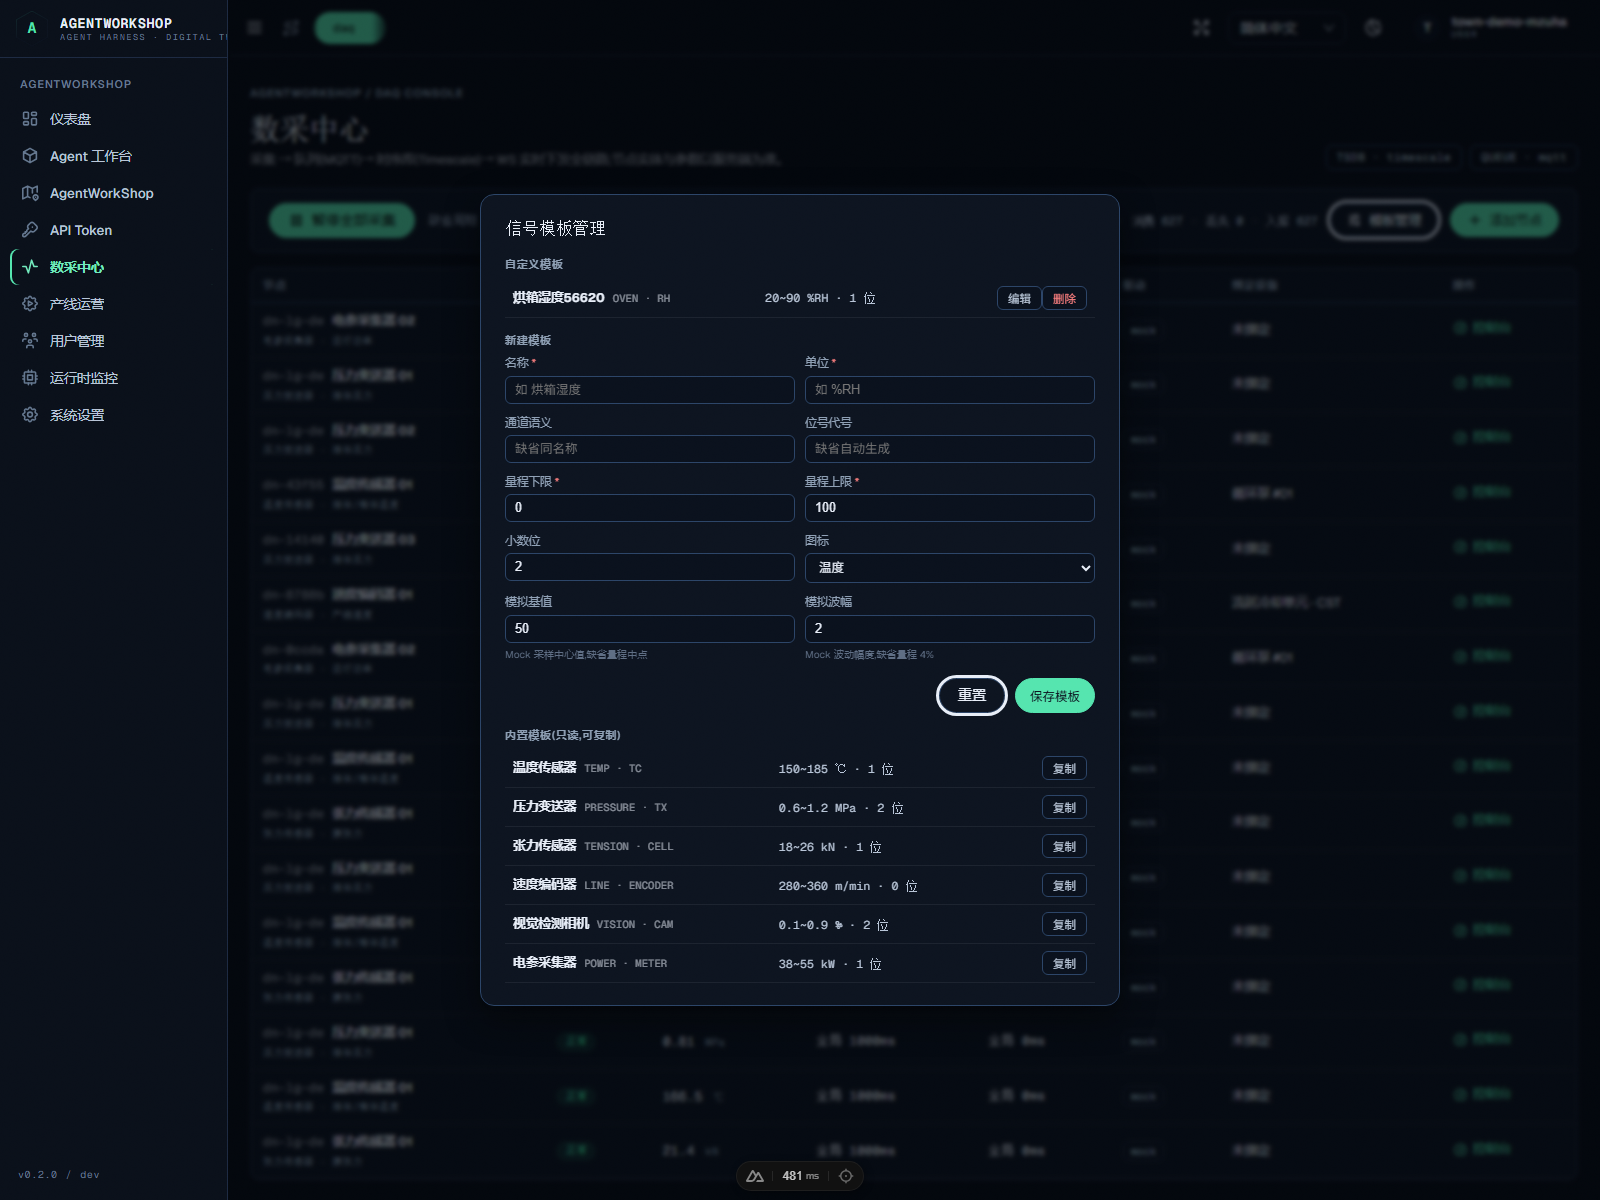
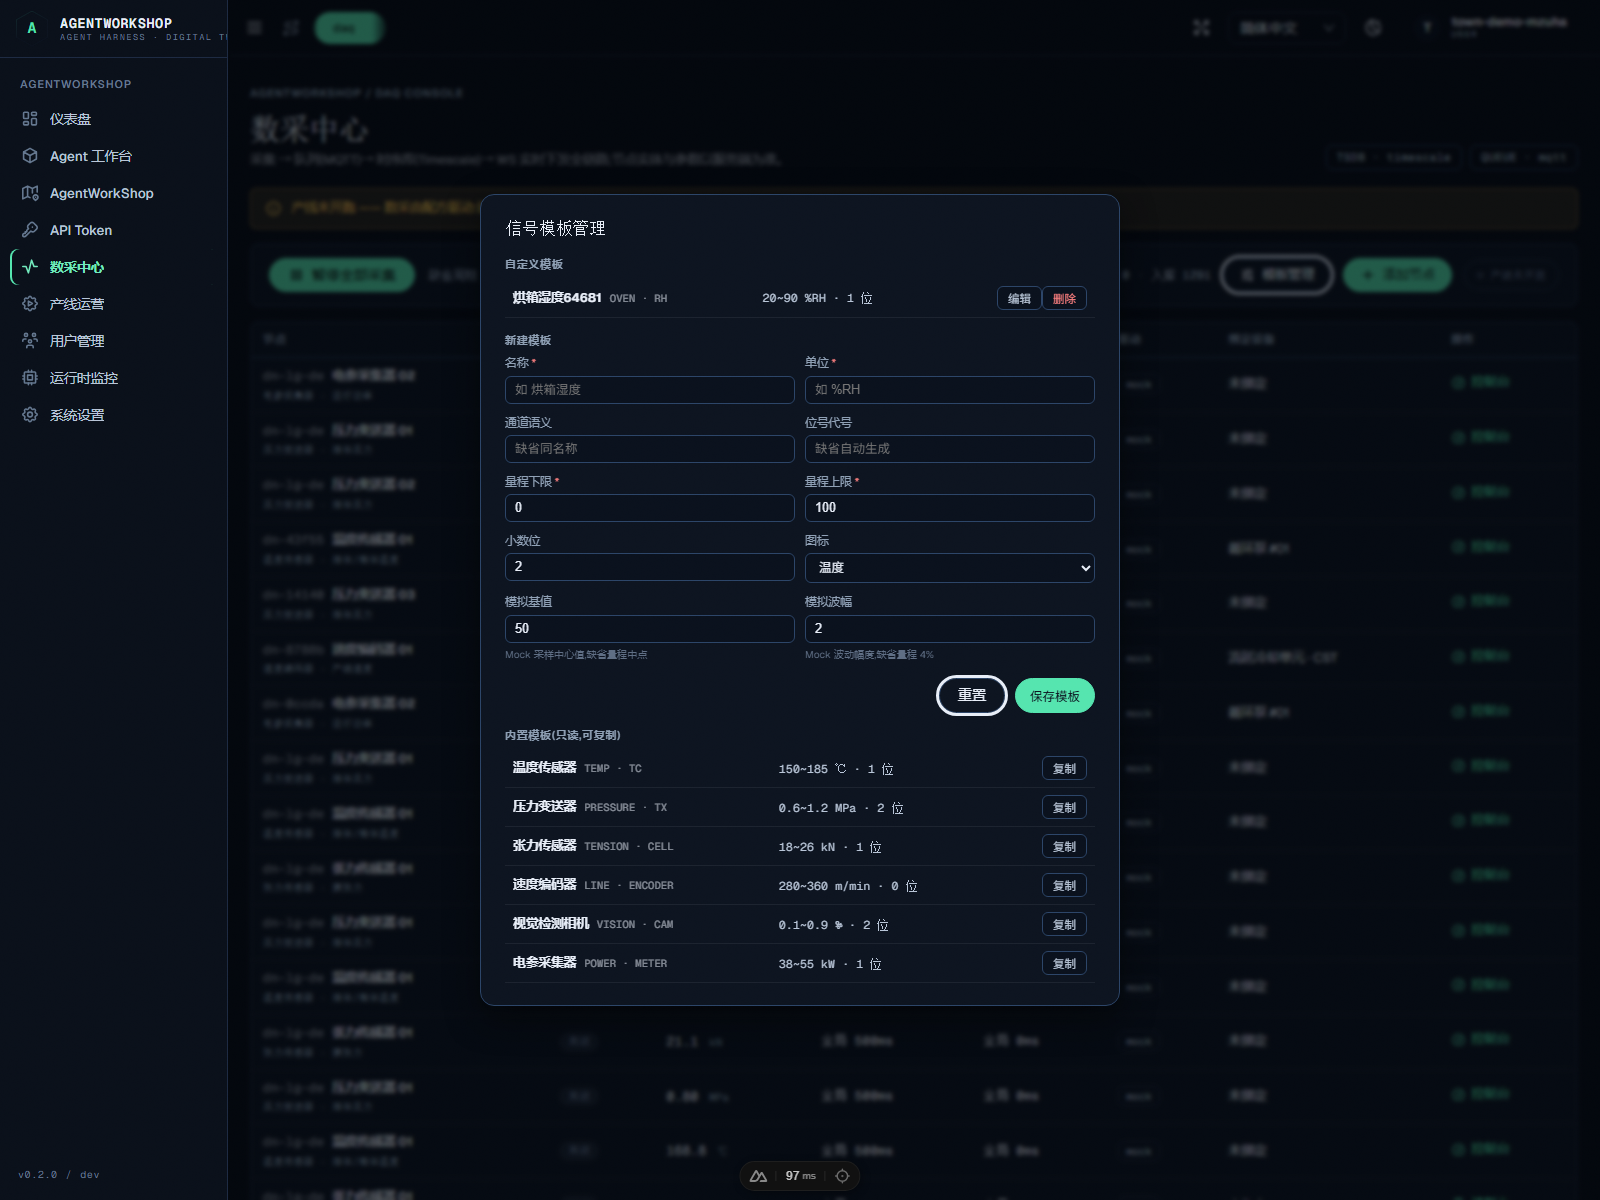
feat(line-ops): 配方驱动门控 —— 数采镜像必须选定配方才执行采集与实时消费
产线门控(硬语义):
- daq-controller sweep 首行门控:无活动配方(未开跑)不采样、不推 WS 帧
- 停线联动:全部数采节点置 offline 并广播收敛;开跑后由采样自然恢复
- /daq 页产线状态 chip(运行中产品·配方 / 未开跑)+ 未开跑引导横幅

产品与配方管理补全:
- 配方参数 nodeId 显式目标节点正确持久化(此前被规范化丢弃)
- 配方卡设定值带单位展示(ch = value unit + 目标节点提示)
- 数字孪生:dcw 场景同步签名纳入 value —— dcw.written 后场景 telemetry
  即时跟随(此前被 daq 高频采样掩盖,门控后暴露并修复)

验证(8 个审计 ALL PASS):
- _dbg-line-gate-audit:双向设备绑定 → 无配方 produced 零增量 → 配方设定值
  (含 nodeId)可查 → 开跑即采样(+59/3.8s)+ WS 实时帧 + 产品打标 → 停线
  零增量 + 节点 offline
- 回归适配产线前置(cadence/e2e/dcw-audit):双节拍 3vs14 帧、全链路 e2e
  236 帧、Modbus 真写换算回读、模板 UI、绑定链路(19 节点场景挂载)、
  dcw 场景设定值联动全部通过
- eslint 0 错误;typecheck 基线持平(33);nuxt build 成功

diff --git a/app/pages/daq/index.vue b/app/pages/daq/index.vue
@@ -6,6 +6,7 @@
  */
 import { onBeforeUnmount, onMounted } from 'vue'
 import { useDaqStream } from '@/app/composables/workshop/useDaqStream'
+import { useDcwStream } from '@/app/composables/workshop/useDcwStream'
 import { useDeviceTwins } from '@/app/composables/workshop/useDeviceTwins'
 import { DAQ_TEMPLATES, DAQ_DRIVERS, DAQ_TEMPLATE_ICONS, daqKeyFromRef, type DaqNodeState, type DriverConfigField, type DriverTestResult as DaqDriverTestResult, type DaqTemplateDef, type DaqTemplateIcon } from '#shared/daq-protocol'
 
@@ -13,12 +14,15 @@ definePageMeta({ layout: 'default' })
 useHead({ title: '数采中心 · AgentWorkShop' })
 
 const daq = useDaqStream()
+const dcw = useDcwStream()
 let unsub: (() => void) | null = null
 let redrawTimer: ReturnType<typeof setInterval> | null = null
 
 onMounted(() => {
   unsub = daq.ensureWsFeed()
   void daq.load()
+  // 产线门控状态(无活动配方不采集;状态仅展示,控制在产线运营页)
+  void dcw.load()
   // meta 指标随读数帧落库节奏低频刷新(诚实可见的管线运行数据)
   redrawTimer = setInterval(() => void daq.load(), 5000)
 })
@@ -289,6 +293,15 @@ async function doReconnect(): Promise<void> {
       </div>
     </div>
 
+    <!-- 产线门控横幅(无活动配方:采集与实时下发暂停) -->
+    <div
+      v-if="daq.loaded && !dcw.line.active"
+      class="infra-banner"
+    >
+      <span class="i-tabler-info-circle" />
+      <span class="txt">产线未开跑 —— 数采由配方驱动:请在<NuxtLink to="/dcw">产线运营</NuxtLink>选择产品与配方后「开始数采」</span>
+    </div>
+
     <!-- 基础设施降级横幅(MQTT/Timescale 不可达:在线采集停用 + 一键重连) -->
     <div
       v-if="daq.meta.infra?.degraded"
@@ -371,6 +384,14 @@ async function doReconnect(): Promise<void> {
           <span class="i-tabler-plus" />
           添加节点
         </button>
+        <NuxtLink
+          class="line-chip mono"
+          :class="{ on: dcw.line.active }"
+          to="/dcw"
+          :title="dcw.line.active ? `产线运行中:${dcw.line.productName} · ${dcw.line.recipeName}` : '产线未开跑:数据采集由配方驱动,请在产线运营页选择产品与配方后开始数采'"
+        >
+          {{ dcw.line.active ? `● 产线 ${dcw.line.productName} · ${dcw.line.recipeName}` : '○ 产线未开跑' }}
+        </NuxtLink>
       </div>
     </section>
 
@@ -930,6 +951,19 @@ h1 { margin: 2px 0 4px; font-size: 30px; font-weight: 400; letter-spacing: -0.01
   border-radius: var(--radius-chip);
 }
 .infra-banner .txt { flex: 1 1 auto; font-size: 12.5px; line-height: 1.5; }
+.infra-banner .txt a { color: var(--accent); text-decoration: underline; }
+.line-chip {
+  padding: 6px 12px;
+  font-size: 11px;
+  color: var(--tone-neutral-dot);
+  border: 1px dashed var(--line-strong);
+  border-radius: var(--radius-pill);
+}
+.line-chip.on {
+  color: var(--tone-success-dot);
+  border: 1px solid color-mix(in srgb, var(--tone-success-dot) 50%, transparent);
+  background: var(--tone-success-bg);
+}
 .infra-banner .pill-btn { flex: 0 0 auto; color: var(--paper-raised); }
 
 /* ---------- 添加节点向导 ---------- */

diff --git a/server/services/workshop/daq/daq-controller.ts b/server/services/workshop/daq/daq-controller.ts
@@ -209,13 +209,23 @@ class DaqController {
     this.broadcast?.('error', { code: 'DAQ_DRIVER', message: `[${node.name}] ${message}` })
   }
 
-  /** 网关统一调度:250ms 扫描,到期判定与互斥由各运行时私有节拍自治(单节点慢/停不波及邻居) */
+  /** 网关统一调度:250ms 扫描,到期判定与互斥由各运行时私有节拍自治(单节点慢/停不波及邻居)。
+   *  产线门控:未选定配方(无活动 LineRun)不执行采集 —— 采样与实时下发均由配方驱动。 */
   private sweep(): void {
     if (!this.pipelineReady || !this.running) return
+    if (!getActiveLineRun()) return
     const now = Date.now()
     for (const rt of this.runtimes.values()) {
       void rt.tick(now)
     }
+  }
+
+  /** 产线停止:全部节点置 offline(开跑后由采样自然恢复) */
+  markAllOffline(): void {
+    for (const n of this.repo.all()) {
+      if (n.enabled) n.state = 'offline'
+    }
+    this.emitController()
   }
 
   /** 运行时注册表对账(仓库为权威:增删节点/启动即对齐;返回新建的运行时) */

diff --git a/app/components/workshop/town/TownView.vue b/app/components/workshop/town/TownView.vue
@@ -1627,8 +1627,10 @@ function drawBindSparks(): void {
 watch(() => daq.nodes.map(n => `${n.id}:${n.posX ?? ''}:${n.posZ ?? ''}:${n.enabled}:${n.state}:${n.deviceBindingId ?? ''}`).join('|'), () => {
   if (sceneRef.value) syncSceneDevices(sceneRef.value)
 })
-// 智控节点清单(增删/落点/绑定)变化 → 场景即时收敛
-watch(() => dcw.nodes.map(n => `${n.id}:${n.posX ?? ''}:${n.posZ ?? ''}:${n.enabled}:${n.deviceBindingId ?? ''}`).join('|'), () => {
+// 智控节点清单(增删/落点/绑定/设定值)变化 → 场景即时收敛
+// (签名含 value:dcw.written 帧更新设定值后场景 telemetry 必须跟随;
+//  写操作低频,无需像 daq 读数那样做签名剔除)
+watch(() => dcw.nodes.map(n => `${n.id}:${n.posX ?? ''}:${n.posZ ?? ''}:${n.enabled}:${n.deviceBindingId ?? ''}:${n.value ?? ''}`).join('|'), () => {
   if (sceneRef.value) syncSceneDevices(sceneRef.value)
 })
 watch(() => daq.nodes.map(n => `${n.id}:${n.deviceBindingId ?? ''}`).join('|'), () => {

diff --git a/server/services/workshop/dcw/dcw-controller.ts b/server/services/workshop/dcw/dcw-controller.ts
@@ -425,12 +425,16 @@ class DcwController {
     return run
   }
 
-  /** 产线停止:关闭批次窗口(此后样本不再打标;数据保留可查) */
+  /** 产线停止:关闭批次窗口(此后样本不再打标;数据保留可查)+ 采集镜像停摆 */
   lineStop() {
     const prev = clearActiveLineRun()
     if (!prev) throw new AppError(400, ErrorCodes.VALIDATION_ERROR, '产线未在运行')
     const run = getDcwRecipeRepo().closeRun(prev.runId)
     this.broadcast?.('dcw.controller', this.controllerState())
+    // 数采门控联动:无活动配方即停止采集,节点置 offline 并广播收敛
+    void import('../daq/daq-controller').then(({ getDaqController }) => {
+      getDaqController().markAllOffline()
+    }).catch(() => {})
     return run
   }
 

diff --git a/server/services/workshop/dcw/dcw-recipe.repo.ts b/server/services/workshop/dcw/dcw-recipe.repo.ts
@@ -61,7 +61,11 @@ export interface DcwWriteHistoryEntry {
 const normParams = (params: RecipeParam[] | undefined): RecipeParam[] =>
   (params ?? [])
     .filter(p => p && typeof p.templateRef === 'string' && Number.isFinite(Number(p.value)))
-    .map(p => ({ templateRef: String(p.templateRef), value: Number(p.value) }))
+    .map(p => ({
+      templateRef: String(p.templateRef),
+      value: Number(p.value),
+      ...(p.nodeId ? { nodeId: String(p.nodeId) } : {}),
+    }))
 
 class DcwRecipeRepo {
   private recipes: RecipeView[] = loadJson<RecipeView[]>(RECIPES_PATH, [])
